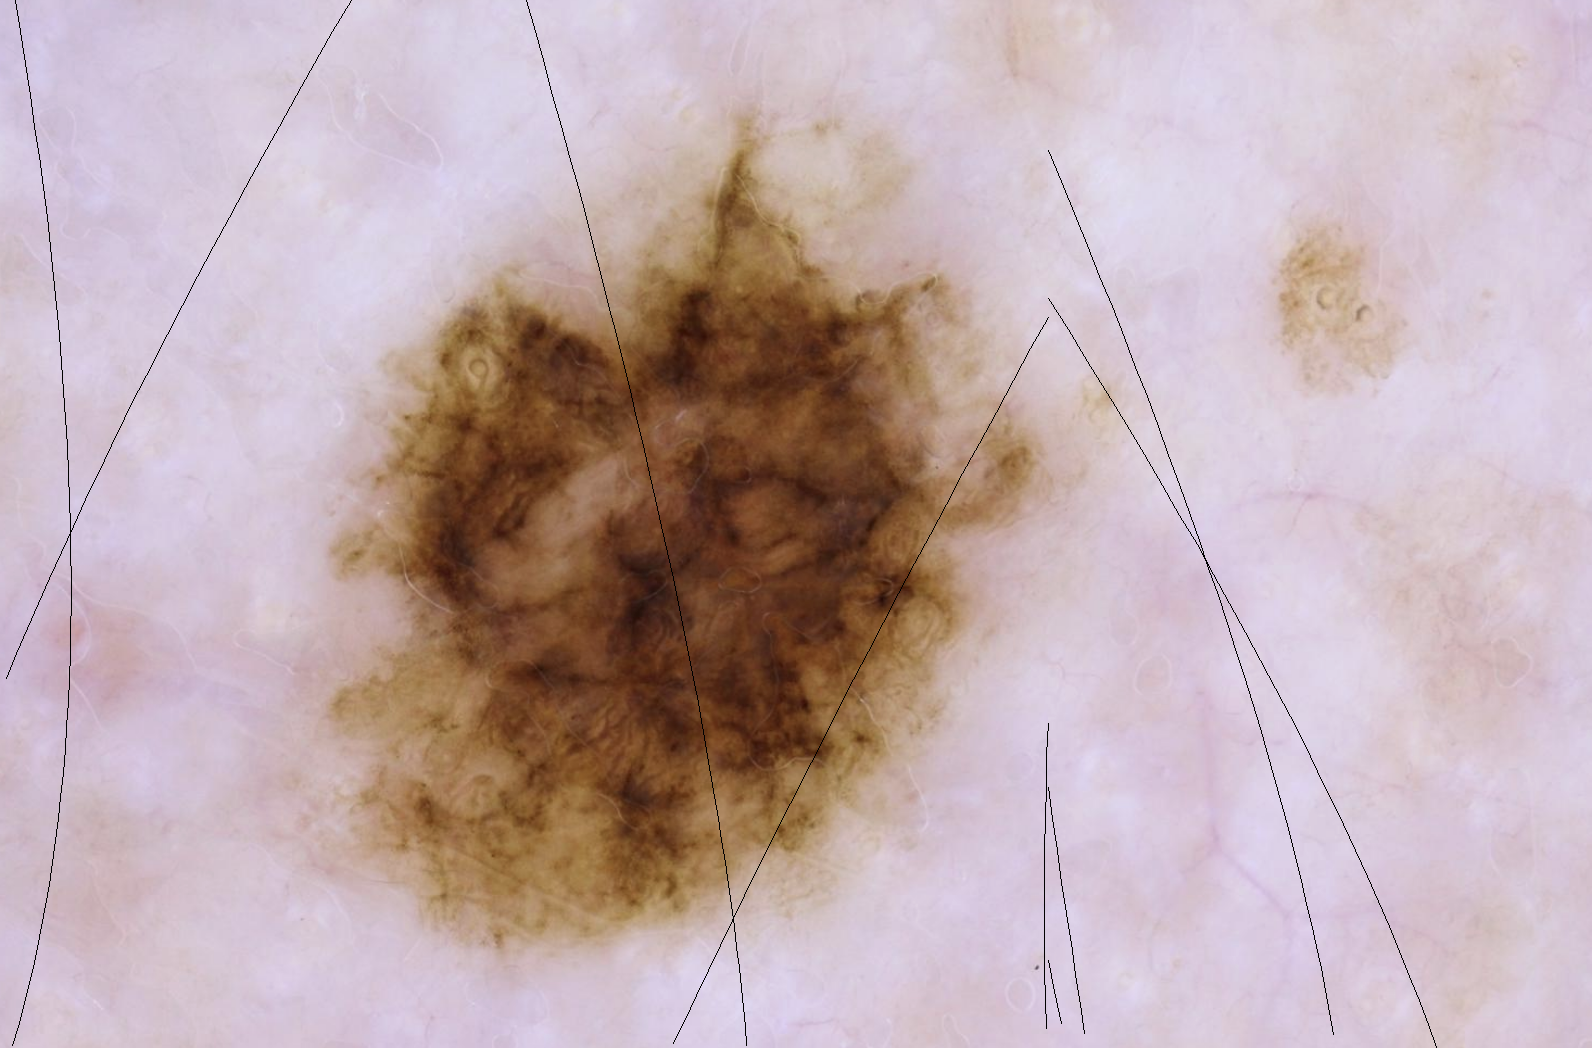
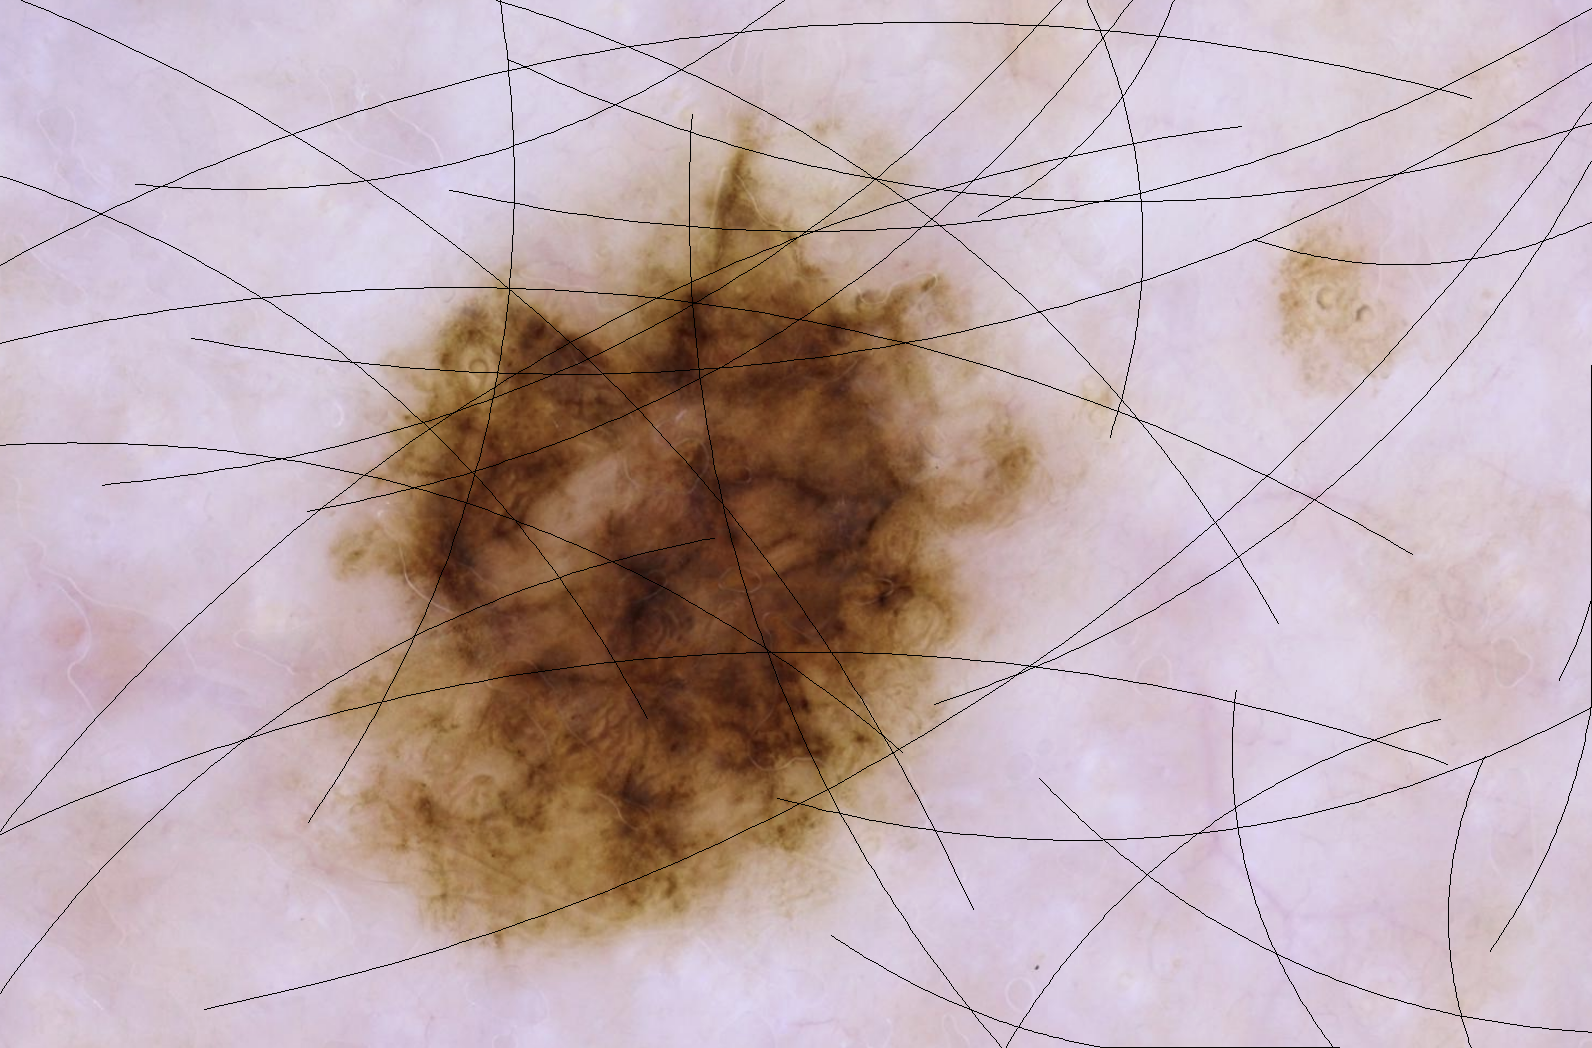
added optional parameter for hair strand curvature and color control

diff --git a/hair_generation/src/mask_generation.py b/hair_generation/src/mask_generation.py
@@ -7,21 +7,27 @@ import random
 def bezier_curve(p0, p1, p2, t):
     return (1 - t) ** 2 * p0 + 2 * (1 - t) * t * p1 + t ** 2 * p2
 
-# gets points from the bezier curve and colors in the points white
-def generate_bezier_hair_mask(width=512, height=512, num_hairs=200):
+def generate_bezier_hair_mask(width=512, height=512, num_hairs=200, curvature=0.5):
     mask = np.zeros((height, width), dtype=np.uint8)
-    # want to start th
+
     border_points = np.array([[0, i] for i in np.arange(0, height)] + 
-                             [[i, 0] for i in np.arange(0, height)] +
-                             [[height, i] for i in np.arange(0, width)] +
-                             [[i, width] for i in np.arange(0, height)]
+                             [[i, 0] for i in np.arange(0, width)] +
+                             [[width-1, i] for i in np.arange(0, height)] +
+                             [[i, height-1] for i in np.arange(0, width)]
                              )
-    # np.array([random.randint(0, i), width] for i in np.arange(0, width))
+    
     for _ in range(num_hairs):
         p0 = random.choice(border_points)
-        # p0 = np.array([random.randint(0, width), random.randint(0, height)])
-        p1 = p0 + np.array([random.randint(-height, height), random.randint(width, width)])
-        p2 = p0 + np.array([random.randint(-height, height), random.randint(width, width)])
+        p2 = np.array([random.randint(0, width), random.randint(0, height)])
+
+        mid = (p0 + p2) / 2
+        
+        direction = np.array([p2[1] - p0[1], p0[0] - p2[0]])  
+        direction = direction / np.linalg.norm(direction)
+        
+        offset = curvature * np.linalg.norm(p2 - p0) * direction
+        
+        p1 = mid + offset  
 
         curve_points = np.array([bezier_curve(p0, p1, p2, t).astype(int) for t in np.linspace(0, 1, 100)])
 
@@ -30,11 +36,10 @@ def generate_bezier_hair_mask(width=512, height=512, num_hairs=200):
 
         curve_points = curve_points.reshape((-1, 1, 2))
 
-        # eventually has to be proportional to the image size
-        thickness = random.randint(0,1)
-        # cv2.polylines(mask, [curve_points], isClosed=False, color=185, thickness=thickness + 1)
+        thickness = random.randint(1, 3)
         cv2.polylines(mask, [curve_points], isClosed=False, color=255, thickness=thickness)
-    return mask 
+
+    return mask
 
 # mask = generate_bezier_hair_mask(1024, 1024, 10)
 

diff --git a/hair_generation/src/mask_impose.py b/hair_generation/src/mask_impose.py
@@ -1,25 +1,30 @@
 import cv2
 import numpy as np
+import random
 from mask_generation import generate_bezier_hair_mask
 
-def impose_mask(image, mask):
-    # convert image to grayscale 
-    # gray = cv2.cvtColor(image, cv2.COLOR_BGR2GRAY)
-    # invert the mask
-    mask_inv = cv2.bitwise_not(mask)
-    # cv2.imshow('mask_inv', mask_inv)
-    # cv2.waitKey(0)
-    # cv2.destroyAllWindows()
-    # # apply the mask to the image
-    masked_image = cv2.bitwise_and(image, image, mask=mask_inv)
-    return masked_image
+def impose_mask(image, mask, hair_color=(0, 0, 255)):
+    mask_3ch = cv2.cvtColor(mask, cv2.COLOR_GRAY2BGR)
+
+    colored_hairs = np.full_like(image, hair_color, dtype=np.uint8)
+
+    final_image = np.where(mask_3ch == 255, colored_hairs, image)
+
+    return final_image
 
 if __name__ == '__main__':
     image = cv2.imread('hair_generation/images/base_images/sampleimageagain.png')
     image_width = image.shape[1]
-    image_height = image.shape[0]
-    mask = generate_bezier_hair_mask(image_width, image_height, 25)
-    masked_image = impose_mask(image, mask)
+    image_height = image.shape[0]   
+
+    hair_colors = [
+        (0, 0, 0),        # Black  
+        (19, 24, 54),     # Dark Brown  
+        (42, 42, 128),    # Medium Brown  
+    ]
+
+    mask = generate_bezier_hair_mask(image_width, image_height, 30, curvature=0.7)
+    masked_image = impose_mask(image, mask, hair_color=random.choice(hair_colors))
     cv2.imshow('masked_image', masked_image)
     cv2.waitKey(0)
     cv2.destroyAllWindows()
